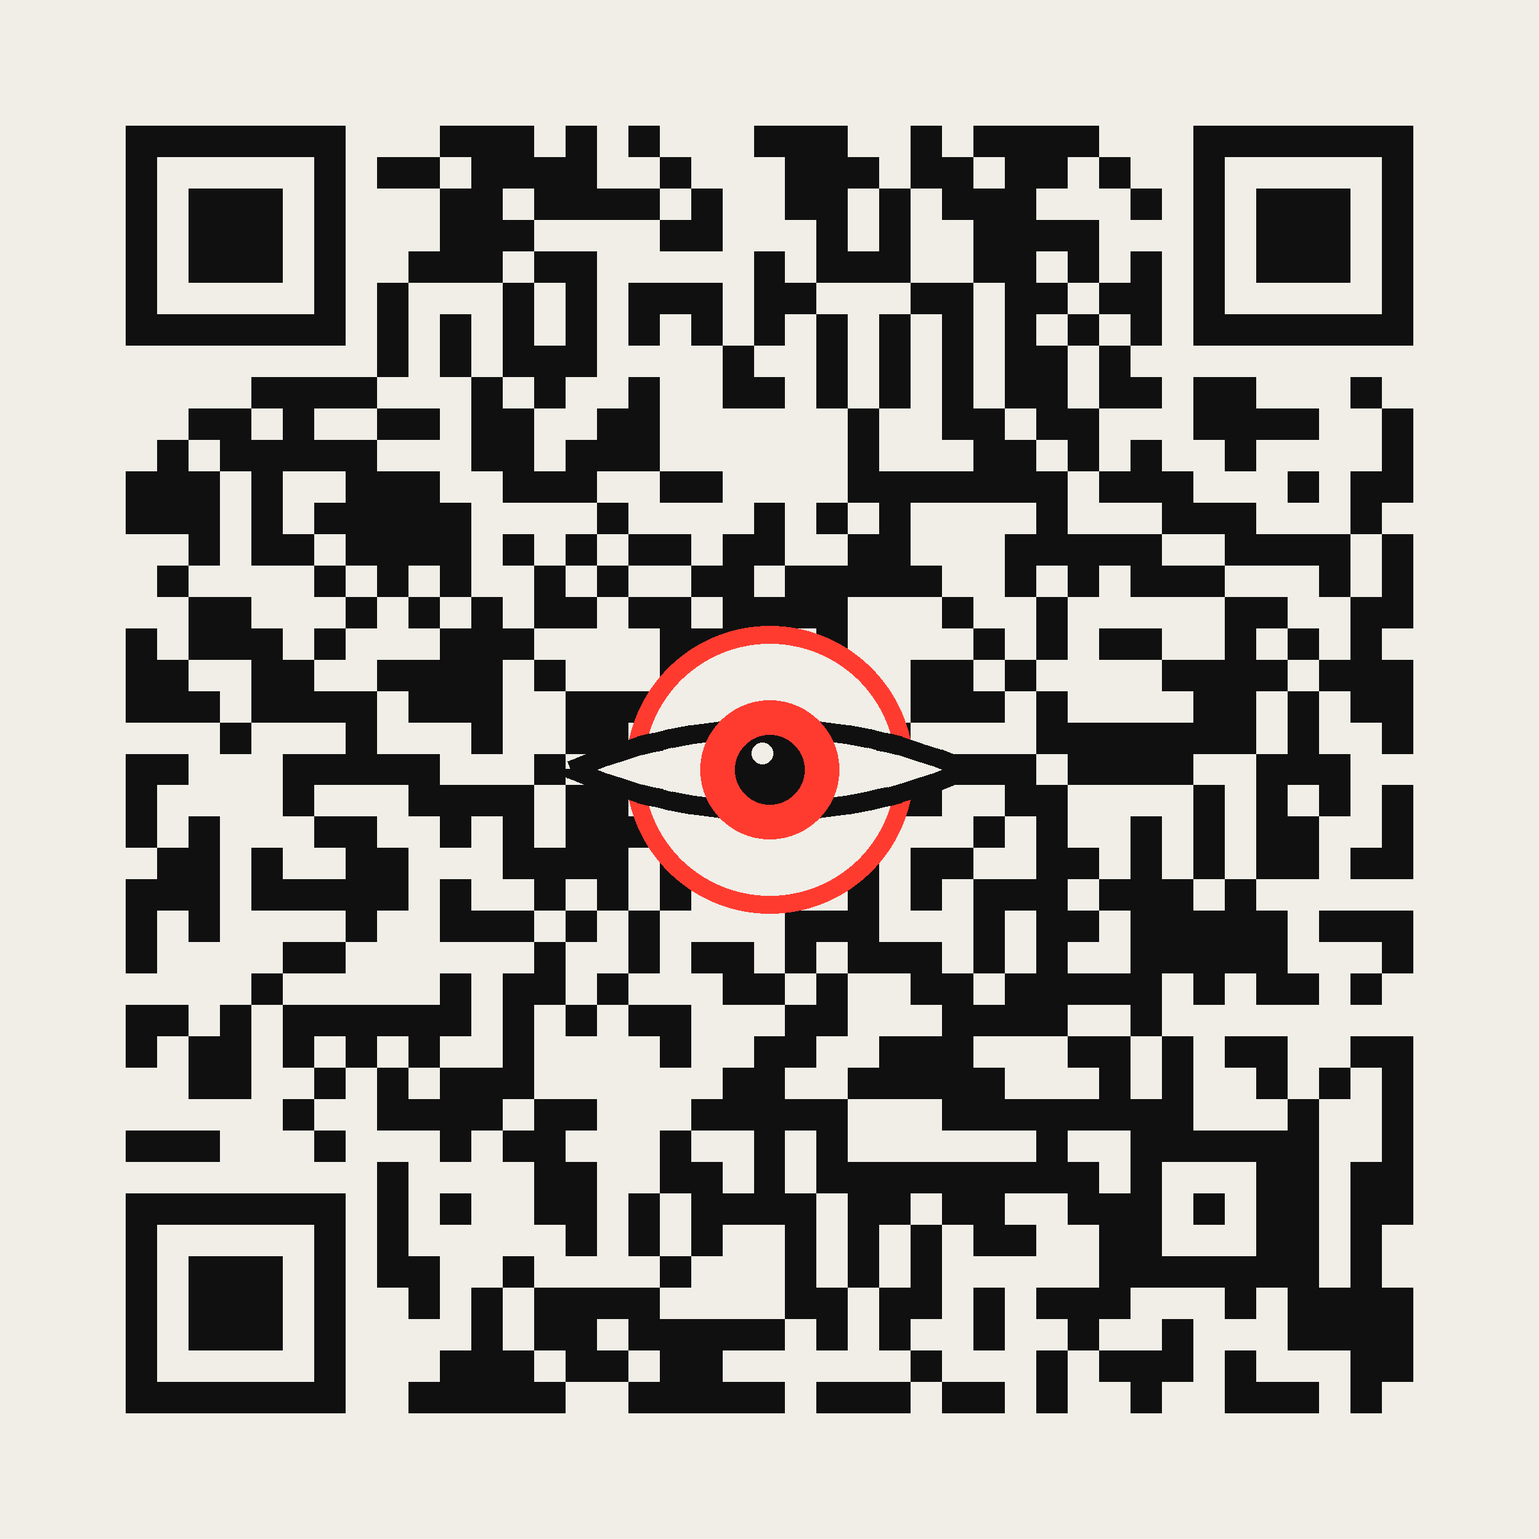
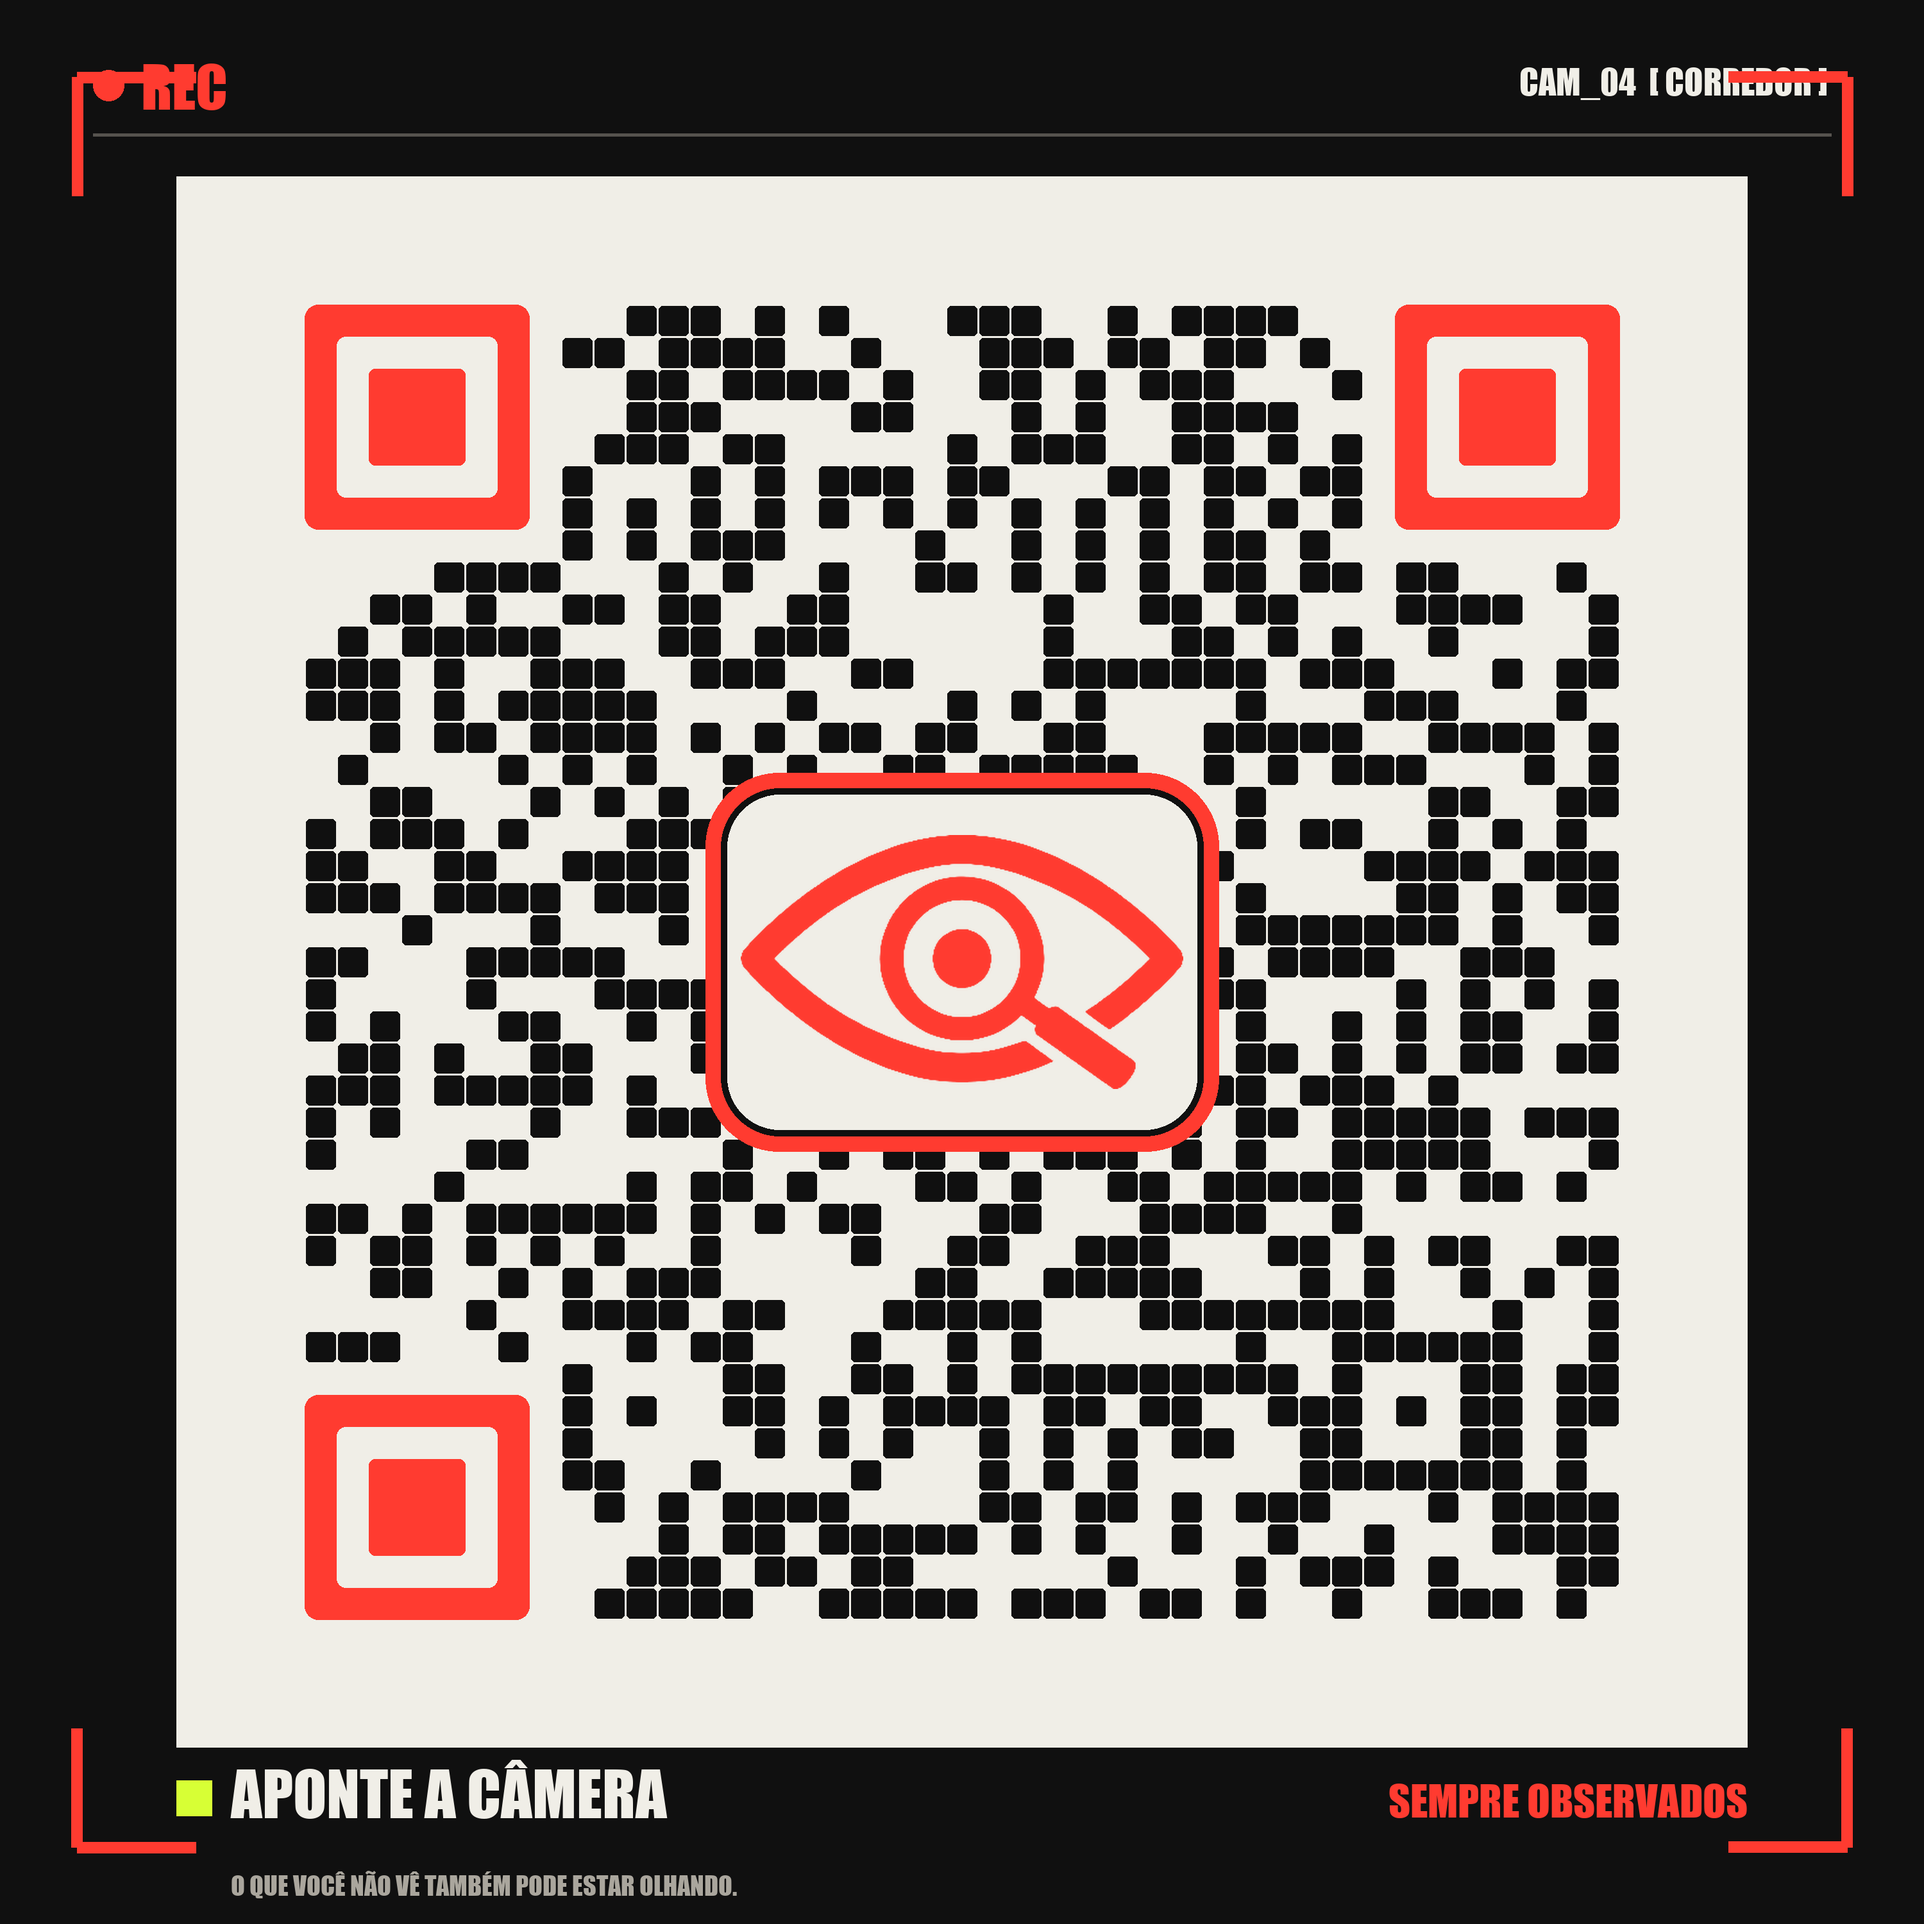
Estiliza QR code com olho vermelho

diff --git a/scripts/gerar_qr.py b/scripts/gerar_qr.py
@@ -2,70 +2,172 @@ from pathlib import Path
 import sys
 
 import qrcode
-from PIL import Image, ImageDraw
+from PIL import Image, ImageDraw, ImageFont
 
 
 URL = "https://fink0612.github.io/SiteIntervensaoArtes/"
 INK = "#101010"
 PAPER = "#f0eee7"
 ALERT = "#ff3b30"
+ACID = "#d7ff35"
+ROOT = Path(__file__).resolve().parent.parent
+REFERENCE = ROOT / "material-divulgacao" / "olho-referencia.png"
 
 
-def quadratic_bezier(start, control, end, steps=40):
-    points = []
-    for index in range(steps + 1):
-        t = index / steps
-        x = (1 - t) ** 2 * start[0] + 2 * (1 - t) * t * control[0] + t**2 * end[0]
-        y = (1 - t) ** 2 * start[1] + 2 * (1 - t) * t * control[1] + t**2 * end[1]
-        points.append((round(x), round(y)))
-    return points
+def fonte(tamanho: int):
+    candidatos = [
+        Path("C:/Windows/Fonts/impact.ttf"),
+        Path("C:/Windows/Fonts/arialbd.ttf"),
+        Path("/usr/share/fonts/truetype/dejavu/DejaVuSans-Bold.ttf"),
+    ]
+    for caminho in candidatos:
+        if caminho.exists():
+            return ImageFont.truetype(str(caminho), tamanho)
+    return ImageFont.load_default()
 
 
-def criar_qr(destino: Path):
+def logo_vermelho(largura: int):
+    original = Image.open(REFERENCE).convert("L")
+    # Usa apenas a silhueta escura da imagem enviada pelo usuário.
+    mascara = original.point(lambda pixel: max(0, min(255, (230 - pixel) * 5)))
+    bbox = mascara.getbbox()
+    if not bbox:
+        raise ValueError("A imagem de referência não contém uma silhueta reconhecível.")
+    mascara = mascara.crop(bbox)
+    altura = round(largura * mascara.height / mascara.width)
+    mascara = mascara.resize((largura, altura), Image.Resampling.LANCZOS)
+    logo = Image.new("RGBA", mascara.size, ALERT)
+    logo.putalpha(mascara)
+    return logo
+
+
+def esta_no_marcador(x: int, y: int, total: int, borda: int):
+    inicio = borda
+    fim = total - borda - 7
+    return (
+        inicio <= x < inicio + 7 and inicio <= y < inicio + 7
+    ) or (
+        fim <= x < fim + 7 and inicio <= y < inicio + 7
+    ) or (
+        inicio <= x < inicio + 7 and fim <= y < fim + 7
+    )
+
+
+def desenhar_marcador(draw: ImageDraw.ImageDraw, x: int, y: int, modulo: float):
+    x0 = round(x * modulo)
+    y0 = round(y * modulo)
+    x7 = round((x + 7) * modulo)
+    y7 = round((y + 7) * modulo)
+    recuo = round(modulo)
+    draw.rounded_rectangle((x0, y0, x7, y7), radius=round(modulo * .42), fill=ALERT)
+    draw.rounded_rectangle(
+        (x0 + recuo, y0 + recuo, x7 - recuo, y7 - recuo),
+        radius=round(modulo * .28),
+        fill=PAPER,
+    )
+    draw.rounded_rectangle(
+        (x0 + recuo * 2, y0 + recuo * 2, x7 - recuo * 2, y7 - recuo * 2),
+        radius=round(modulo * .2),
+        fill=ALERT,
+    )
+
+
+def criar_painel_qr(tamanho: int = 2450):
     qr = qrcode.QRCode(
         version=None,
         error_correction=qrcode.constants.ERROR_CORRECT_H,
-        box_size=48,
+        box_size=1,
         border=4,
     )
     qr.add_data(URL)
     qr.make(fit=True)
-    imagem = qr.make_image(fill_color=INK, back_color=PAPER).convert("RGB")
-    imagem = imagem.resize((2400, 2400), Image.Resampling.NEAREST)
+    matriz = qr.get_matrix()
+    total = len(matriz)
+    modulo = tamanho / total
 
-    draw = ImageDraw.Draw(imagem)
-    centro = 1200
-    placa = 224
+    painel = Image.new("RGB", (tamanho, tamanho), PAPER)
+    draw = ImageDraw.Draw(painel)
+    folga = max(1, round(modulo * 0.035))
+    raio = max(2, round(modulo * 0.13))
 
-    # Área limpa em torno do símbolo central, pequena o bastante para a
-    # correção de erro de nível H reconstruir os módulos encobertos.
-    draw.ellipse(
-        (centro - placa, centro - placa, centro + placa, centro + placa),
-        fill=PAPER,
-        outline=ALERT,
-        width=28,
+    for y, linha in enumerate(matriz):
+        for x, ativo in enumerate(linha):
+            if not ativo:
+                continue
+            if esta_no_marcador(x, y, total, qr.border):
+                continue
+            x0 = round(x * modulo) + folga
+            y0 = round(y * modulo) + folga
+            x1 = round((x + 1) * modulo) - folga
+            y1 = round((y + 1) * modulo) - folga
+            draw.rounded_rectangle((x0, y0, x1, y1), radius=raio, fill=INK)
+
+    inicio = qr.border
+    fim = total - qr.border - 7
+    desenhar_marcador(draw, inicio, inicio, modulo)
+    desenhar_marcador(draw, fim, inicio, modulo)
+    desenhar_marcador(draw, inicio, fim, modulo)
+
+    # Placa central: grande e visível, sem encobrir mais do que a correção H tolera.
+    placa_largura = 800
+    placa_altura = 590
+    cx = cy = tamanho // 2
+    placa = (
+        cx - placa_largura // 2,
+        cy - placa_altura // 2,
+        cx + placa_largura // 2,
+        cy + placa_altura // 2,
+    )
+    draw.rounded_rectangle(placa, radius=115, fill=PAPER, outline=ALERT, width=25)
+    draw.rounded_rectangle(
+        (placa[0] + 24, placa[1] + 24, placa[2] - 24, placa[3] - 24),
+        radius=92,
+        outline=INK,
+        width=10,
     )
 
-    largura = 310
-    altura = 130
-    esquerda = (centro - largura, centro)
-    direita = (centro + largura, centro)
-    superior = quadratic_bezier(esquerda, (centro, centro - altura), direita)
-    inferior = quadratic_bezier(direita, (centro, centro + altura), esquerda)
-    olho = superior + inferior
-    draw.polygon(olho, fill=PAPER)
-    draw.line(olho + [olho[0]], fill=INK, width=30, joint="curve")
+    logo = logo_vermelho(690)
+    painel.paste(logo, (cx - logo.width // 2, cy - logo.height // 2), logo)
+    return painel, qr.version
 
-    draw.ellipse((centro - 108, centro - 108, centro + 108, centro + 108), fill=ALERT)
-    draw.ellipse((centro - 54, centro - 54, centro + 54, centro + 54), fill=INK)
-    draw.ellipse((centro - 28, centro - 42, centro + 5, centro - 9), fill=PAPER)
+
+def criar_qr_tematico(destino: Path):
+    tamanho = 3000
+    imagem = Image.new("RGB", (tamanho, tamanho), INK)
+    draw = ImageDraw.Draw(imagem)
+
+    # Cabeçalho de câmera/vigilância.
+    draw.ellipse((145, 109, 193, 157), fill=ALERT)
+    draw.text((220, 80), "REC", fill=ALERT, font=fonte(90))
+    draw.text((tamanho - 150, 94), "CAM_04  [ CORREDOR ]", fill=PAPER, font=fonte(54), anchor="ra")
+    draw.line((145, 210, tamanho - 145, 210), fill="#56534e", width=5)
+
+    painel, versao = criar_painel_qr()
+    posicao = ((tamanho - painel.width) // 2, 275)
+    imagem.paste(painel, posicao)
+
+    # Mira e moldura de gravação fora da área de leitura.
+    canto = 120
+    comprimento = 185
+    largura = 18
+    for sx, sy in ((1, 1), (-1, 1), (1, -1), (-1, -1)):
+        x = canto if sx == 1 else tamanho - canto
+        y = canto if sy == 1 else tamanho - canto
+        draw.line((x, y, x + sx * comprimento, y), fill=ALERT, width=largura)
+        draw.line((x, y, x, y + sy * comprimento), fill=ALERT, width=largura)
+
+    rodape_y = 2810
+    draw.rectangle((275, rodape_y - 34, 330, rodape_y + 21), fill=ACID)
+    draw.text((360, rodape_y - 72), "APONTE A CÂMERA", fill=PAPER, font=fonte(96))
+    draw.text((tamanho - 275, rodape_y - 43), "SEMPRE OBSERVADOS", fill=ALERT, font=fonte(66), anchor="ra")
+    draw.text((360, 2915), "O QUE VOCÊ NÃO VÊ TAMBÉM PODE ESTAR OLHANDO.", fill="#aaa69d", font=fonte(40))
 
     destino.parent.mkdir(parents=True, exist_ok=True)
     imagem.save(destino, format="PNG", optimize=True, dpi=(300, 300))
-    return qr.version
+    return versao
 
 
 if __name__ == "__main__":
-    destino = Path(sys.argv[1]) if len(sys.argv) > 1 else Path("material-divulgacao/qr-code-olho.png")
-    versao = criar_qr(destino)
+    destino = Path(sys.argv[1]) if len(sys.argv) > 1 else ROOT / "material-divulgacao" / "qr-code-olho.png"
+    versao = criar_qr_tematico(destino)
     print(f"QR version {versao} salvo em {destino.resolve()}")
